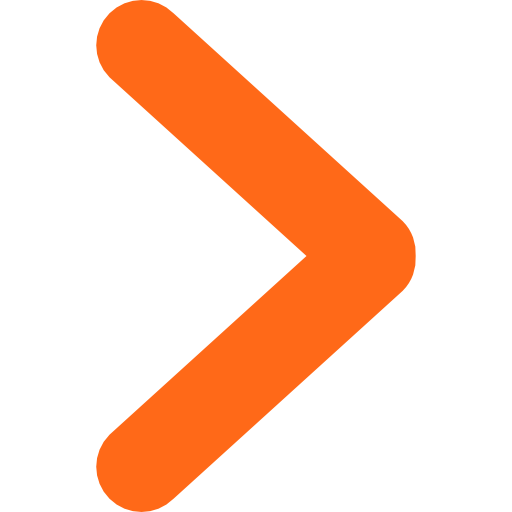
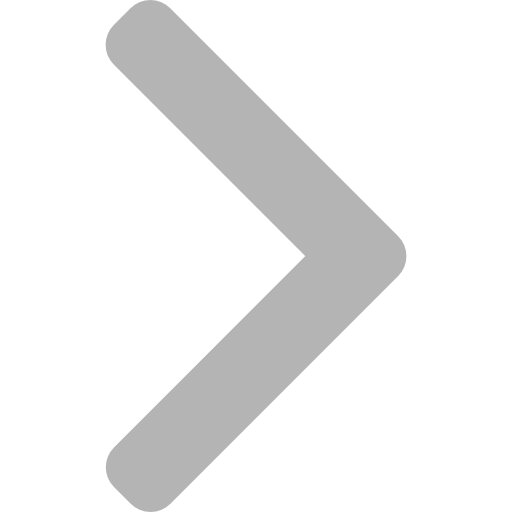
배너 수정 완료

Changed region(s): [[0.1875, 0.0, 0.8125, 1.0]]

diff --git a/src/main/webapp/resources/css/main_style_header.css b/src/main/webapp/resources/css/main_style_header.css
@@ -77,7 +77,7 @@ header {
 .helloBox:link { color : saddlebrown; text-decoration : none; }
 .helloBox:visited { color : saddlebrown; text-decoration : none; }
 .helloBox:active { color : orange; text-decoration : none; }
-.helloBox:hover { color : #ffea00;; text-decoration : none; }
+.helloBox:hover { color : #ffea00; text-decoration : none; }
 
 /* 알림 기능 추가 (희진) */
 .header2 img {

diff --git a/src/main/webapp/resources/css/main_style_section.css b/src/main/webapp/resources/css/main_style_section.css
@@ -37,8 +37,6 @@ section {
 }
 
 .mainSliderList {
-    border-top: 2px solid #444444;
-    border-bottom: 2px solid #444444;
     width : 80%;
     height : 400px;
     margin : 3% auto 0;

diff --git a/src/main/java/com/sw/fd/controller/MemberController.java b/src/main/java/com/sw/fd/controller/MemberController.java
@@ -20,6 +20,9 @@ import javax.servlet.http.HttpServletRequest;
 import javax.servlet.http.HttpServletResponse;
 import javax.servlet.http.HttpSession;
 import javax.validation.Valid;
+import java.time.LocalDate;
+import java.time.format.DateTimeFormatter;
+import java.time.format.DateTimeParseException;
 import java.util.HashMap;
 import java.util.Map;
 import java.util.Optional;
@@ -67,6 +70,15 @@ public class MemberController {
 
     @PostMapping("/register/user")
     public String registerUser(@Valid @ModelAttribute("member") Member member, BindingResult bindingResult, Model model) {
+        // 생년월일 형식 검증
+        try {
+            if (member.getMbirth() != null) {
+                LocalDate.parse(member.getMbirth().toString(), DateTimeFormatter.ofPattern("yyyyMMdd"));
+            }
+        } catch (DateTimeParseException e) {
+            bindingResult.rejectValue("mbirth", "error.member", "생년월일이 올바른 형식이 아닙니다. (예: YYYYMMDD)");
+        }
+
         if (bindingResult.hasErrors()) {
             model.addAttribute("memberType", "손님");
             return "registerUser";
@@ -97,6 +109,15 @@ public class MemberController {
 
     @PostMapping("/register/owner")
     public String registerOwner(@Valid @ModelAttribute("member") Member member, BindingResult bindingResult, Model model) {
+        // 생년월일 형식 검증
+        try {
+            if (member.getMbirth() != null) {
+                LocalDate.parse(member.getMbirth().toString(), DateTimeFormatter.ofPattern("yyyyMMdd"));
+            }
+        } catch (DateTimeParseException e) {
+            bindingResult.rejectValue("mbirth", "error.member", "생년월일이 올바른 형식이 아닙니다. (예: YYYYMMDD)");
+        }
+
         if (bindingResult.hasErrors()) {
             model.addAttribute("memberType", "사장님");
             return "registerOwner";
